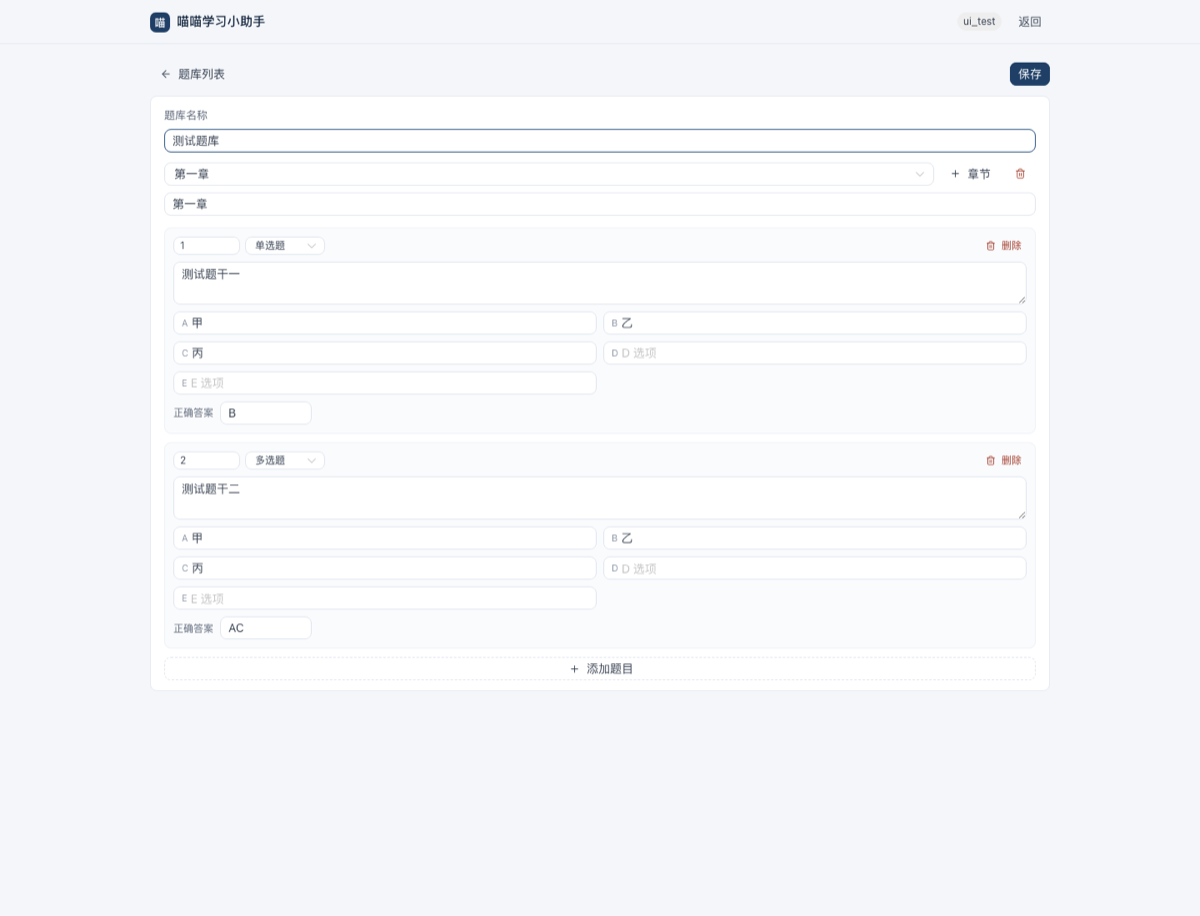
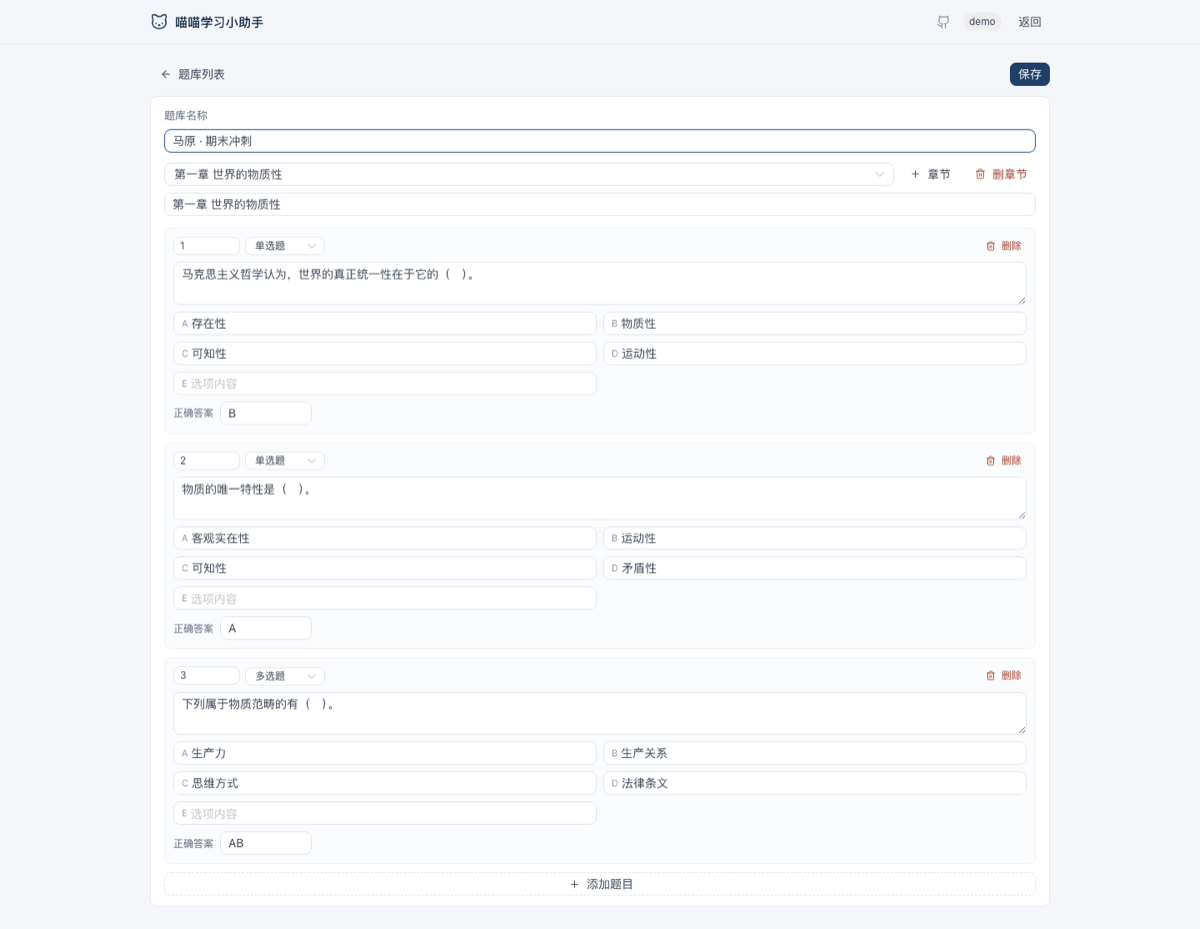
feat: 顶栏改用猫图标与 GitHub 入口，README 补窄屏演示
- 左上角去掉汉字方块，改为 lucide Cat 线条图标（方案 C）
- 右上角加 GitHub 入口，鼠标悬停变主色
- 顺手补 favicon，与顶栏图标同源
- README 界面预览增加约 700px 的窄屏演示

diff --git a/web/src/components/AppShell.vue b/web/src/components/AppShell.vue
@@ -1,5 +1,6 @@
 <script setup>
 import { computed } from 'vue'
+import { Cat, Github } from 'lucide-vue-next'
 import { state, goBack, setError } from '../stores/app'
 import LoginView from '../views/LoginView.vue'
 import HomeView from '../views/HomeView.vue'
@@ -13,6 +14,8 @@ import NetworkView from '../views/NetworkView.vue'
 import GuideView from '../views/GuideView.vue'
 import ShortcutsView from '../views/ShortcutsView.vue'
 import SettingsView from '../views/SettingsView.vue'
+
+const PROJECT_URL = 'https://github.com/ShaddockNH3/Meow-Politics-Helper'
 
 const views = {
   home: HomeView,
@@ -38,9 +41,20 @@ const showBack = computed(() => state.userId && state.view !== 'home' && state.v
     <header v-if="state.userId" class="topbar">
       <div class="topbar-inner">
         <div class="brand">
-          <span class="brand-dot">喵</span>喵喵学习小助手
+          <Cat class="brand-icon" :size="22" :stroke-width="1.8" />
+          <span>喵喵学习小助手</span>
         </div>
         <div class="topbar-right">
+          <a
+            class="gh-link"
+            :href="PROJECT_URL"
+            target="_blank"
+            rel="noopener"
+            title="项目源码（GitHub）"
+            aria-label="项目源码（GitHub）"
+          >
+            <Github :size="17" :stroke-width="1.8" />
+          </a>
           <n-tag size="small" :bordered="false" round>{{ state.userId }}</n-tag>
           <n-button v-if="showBack" size="small" quaternary @click="goBack">返回</n-button>
         </div>

diff --git a/web/src/styles.css b/web/src/styles.css
@@ -58,25 +58,34 @@ body {
 }
 
 .brand {
+  display: flex;
+  align-items: center;
+  gap: 8px;
   font-size: 15px;
   font-weight: 500;
   color: var(--text);
   letter-spacing: 0.2px;
 }
 
-.brand-dot {
-  width: 24px;
-  height: 24px;
-  border-radius: 7px;
-  background: var(--primary);
+.brand-icon {
+  color: var(--primary);
+  flex: 0 0 auto;
+}
+
+.gh-link {
   display: inline-flex;
   align-items: center;
   justify-content: center;
-  color: #fff;
-  font-size: 13px;
-  line-height: 1;
-  margin-right: 8px;
-  vertical-align: middle;
+  width: 26px;
+  height: 26px;
+  border-radius: 6px;
+  color: var(--faint);
+  transition: color 0.15s ease, background 0.15s ease;
+}
+
+.gh-link:hover {
+  color: var(--primary);
+  background: rgba(31, 63, 102, 0.06);
 }
 
 .topbar-right {
@@ -146,6 +155,7 @@ body {
 .course-add {
   border-style: dashed !important;
   display: flex;
+  grid-column: 1 / -1;
 }
 
 .course-add .add-inner {

diff --git a/web/index.html b/web/index.html
@@ -4,6 +4,7 @@
     <meta charset="UTF-8" />
     <meta name="viewport" content="width=device-width, initial-scale=1.0" />
     <meta name="theme-color" content="#1f3f66" />
+    <link rel="icon" type="image/svg+xml" href="./src/assets/favicon.svg" />
     <title>喵喵学习小助手</title>
   </head>
   <body>

diff --git a/README.md b/README.md
@@ -14,17 +14,22 @@
 
 ## 界面预览
 
-主菜单：宽屏把课程和模式并排，一屏就能选完。
+主菜单（宽屏）：课程和模式并排，一屏就能选完。
 
 ![主菜单](docs/screenshots/home.png)
 
-答题页：左边做题，右边挂进度和跳题面板。
+答题页（宽屏）：左边做题，右边挂进度和跳题面板。
 
 ![答题页](docs/screenshots/quiz.png)
 
-手机端：宽度小于 768 自动切单列，操作按钮贴底。
+窄屏（约 700px，落在 768 断点以下）：课程和模式改为上下堆叠，宽度仍够放两列卡片。
+
+![窄屏界面](docs/screenshots/narrow.png)
+
+手机（390px）：单列布局，操作按钮贴底。
 
 <img src="docs/screenshots/mobile.png" width="300" alt="手机端界面" />
+
 自定义题库编辑器：
 
 ![题库编辑器](docs/screenshots/editor.png)
